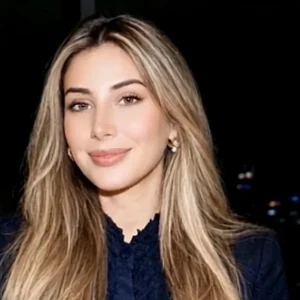
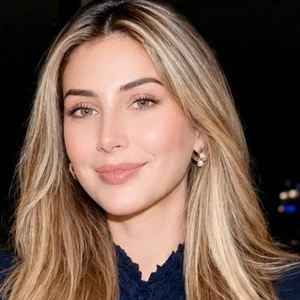
Nouveau portrait de la CEO (photo et vignette)
Claude-Session: https://claude.ai/code/session_01FVhHhWoKGQ4YDJuxrG2RFU

diff --git a/about-us/index.html b/about-us/index.html
@@ -13,7 +13,7 @@
 <meta name="twitter:title" content="About Us — Global Premium Events">
 <meta name="twitter:description" content="Global Premium Events is a 100% women-owned events and missions company in Rabat, Morocco, led by Sarah Zineb Boumouja — CEO, keynote speaker and moderator on Africa–Gulf investment, women’s leadership and inclusive events.">
 <script type="application/ld+json">
-{"@context": "https://schema.org", "@type": "Person", "name": "Sarah Zineb Boumouja", "jobTitle": "Co-Founder & CEO", "worksFor": {"@type": "Organization", "name": "Global Premium Events", "url": "https://globalpremiumevents.com"}, "url": "https://globalpremiumevents.com/about-us/#ceo-bio", "image": "https://globalpremiumevents.com/assets/img/sarah-ceo.webp", "email": "mailto:ceo@globalpremiumevents.com", "sameAs": ["https://www.linkedin.com/in/sarah-zineb-boumouja-323b4826/"], "nationality": "Moroccan", "homeLocation": {"@type": "Place", "name": "Rabat, Morocco"}, "alumniOf": [{"@type": "CollegeOrUniversity", "name": "Indiana University – Kelley School of Business"}], "knowsLanguage": ["English", "French", "Arabic"], "award": "Best Global Event Management Company – North Africa, MEA Markets African Excellence Awards 2022 (Global Premium Events)", "knowsAbout": ["Investment promotion", "Trade missions", "Africa–GCC partnerships", "Public policy", "Administrative law", "Women's leadership in Africa", "Inclusive events", "Panel moderation", "Keynote speaking", "Economics", "Cultural diplomacy", "Korean language and literature"], "description": "Moroccan entrepreneur, keynote speaker and panel moderator; Co-Founder and CEO of Global Premium Events, a 100% women-owned company convening official missions, investment forums and summits between Africa, the Gulf, Europe and the United States.", "hasCredential": {"@type": "EducationalOccupationalCredential", "credentialCategory": "Master's degree", "name": "Administrative Law and Public Policy"}}
+{"@context": "https://schema.org", "@type": "Person", "name": "Sarah Zineb Boumouja", "jobTitle": "Co-Founder & CEO", "worksFor": {"@type": "Organization", "name": "Global Premium Events", "url": "https://globalpremiumevents.com"}, "url": "https://globalpremiumevents.com/about-us/#ceo-bio", "image": "https://globalpremiumevents.com/assets/img/sarah-ceo.webp?v=2", "email": "mailto:ceo@globalpremiumevents.com", "sameAs": ["https://www.linkedin.com/in/sarah-zineb-boumouja-323b4826/"], "nationality": "Moroccan", "homeLocation": {"@type": "Place", "name": "Rabat, Morocco"}, "alumniOf": [{"@type": "CollegeOrUniversity", "name": "Indiana University – Kelley School of Business"}], "knowsLanguage": ["English", "French", "Arabic"], "award": "Best Global Event Management Company – North Africa, MEA Markets African Excellence Awards 2022 (Global Premium Events)", "knowsAbout": ["Investment promotion", "Trade missions", "Africa–GCC partnerships", "Public policy", "Administrative law", "Women's leadership in Africa", "Inclusive events", "Panel moderation", "Keynote speaking", "Economics", "Cultural diplomacy", "Korean language and literature"], "description": "Moroccan entrepreneur, keynote speaker and panel moderator; Co-Founder and CEO of Global Premium Events, a 100% women-owned company convening official missions, investment forums and summits between Africa, the Gulf, Europe and the United States.", "hasCredential": {"@type": "EducationalOccupationalCredential", "credentialCategory": "Master's degree", "name": "Administrative Law and Public Policy"}}
 </script>
 <script type="application/ld+json">
 {
@@ -746,7 +746,7 @@
     <div class="leader-card glow-card reveal">
       <div class="leader-portrait">
         <div class="leader-photo-frame bio-open" data-open-bio role="button" tabindex="0" aria-label="Open the biography of Sarah Zineb Boumouja">
-          <img class="leader-photo" src="/assets/img/sarah-ceo.webp" alt="Sarah Zineb Boumouja, Co-Founder and CEO of Global Premium Events" loading="lazy">
+          <img class="leader-photo" src="/assets/img/sarah-ceo.webp?v=2" alt="Sarah Zineb Boumouja, Co-Founder and CEO of Global Premium Events" loading="lazy">
         </div>
         <div class="leader-caption">
           <b>Sarah Zineb Boumouja</b>
@@ -1158,7 +1158,7 @@
   <button class="bio-x" type="button" aria-label="Close" data-close-bio>&times;</button>
   <div class="bio-in">
     <aside class="bio-side">
-      <img src="/assets/img/sarah-ceo.webp" alt="Sarah Zineb Boumouja" loading="lazy">
+      <img src="/assets/img/sarah-ceo.webp?v=2" alt="Sarah Zineb Boumouja" loading="lazy">
       <h2 id="bioName">Sarah Zineb Boumouja</h2>
       <p class="bio-role">Co-Founder &amp; CEO, Global Premium Events</p>
       <p style="margin:0;font-size:12.5px;color:#C7D1E3;line-height:1.5">Keynote speaker &amp; moderator<br>Rabat, Morocco &middot; EN / FR / AR</p>

diff --git a/index.html b/index.html
@@ -1714,7 +1714,7 @@
         <img src="/assets/img/0b25dad8edea.webp" alt="Award presentation on stage at the Sharjah FDI Forum" loading="lazy">
       </div>
       <div class="bento-tile bento-ceo reveal glow-card">
-        <a href="/about-us/#leadership" class="bio-open" data-open-bio aria-label="Open the biography of Sarah Zineb Boumouja"><img loading="lazy" class="cm-photo-round" src="/assets/img/sarah-ceo-avatar.webp" alt="Sarah Zineb Boumouja, CEO of Global Premium Events"></a>
+        <a href="/about-us/#leadership" class="bio-open" data-open-bio aria-label="Open the biography of Sarah Zineb Boumouja"><img loading="lazy" class="cm-photo-round" src="/assets/img/sarah-ceo-avatar.webp?v=2" alt="Sarah Zineb Boumouja, CEO of Global Premium Events"></a>
         <div class="about-leadership-text">
           <span class="cm-name">Sarah Zineb Boumouja</span>
           <span class="cm-title">Chief Executive Officer</span>
@@ -2173,7 +2173,7 @@ function gpeSend(form, payload, mailtoUrl){
   <button class="bio-x" type="button" aria-label="Close" data-close-bio>&times;</button>
   <div class="bio-in">
     <aside class="bio-side">
-      <img src="/assets/img/sarah-ceo.webp" alt="Sarah Zineb Boumouja" loading="lazy">
+      <img src="/assets/img/sarah-ceo.webp?v=2" alt="Sarah Zineb Boumouja" loading="lazy">
       <h2 id="bioName">Sarah Zineb Boumouja</h2>
       <p class="bio-role">Co-Founder &amp; CEO, Global Premium Events</p>
       <p style="margin:0;font-size:12.5px;color:#C7D1E3;line-height:1.5">Keynote speaker &amp; moderator<br>Rabat, Morocco &middot; EN / FR / AR</p>
